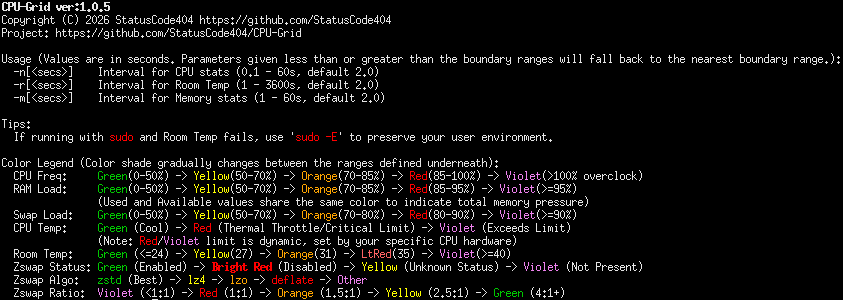
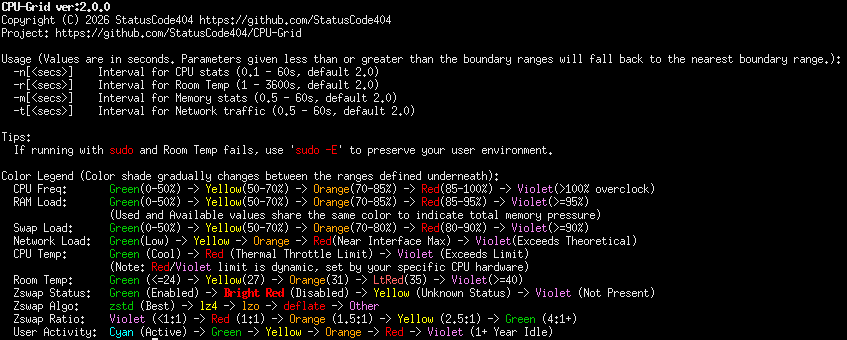
Updated README.md Updated images to represent 2.0.0

Changed region(s): [[0.0, 0.39, 0.7711, 1.0], [0.0, 0.15, 1.0, 0.36], [0.0, 0.0, 0.4626, 0.12]]

diff --git a/README.md b/README.md
@@ -6,16 +6,19 @@
 ![CPU-Grid Help](Screenshot-Help.png)
 
 ## What is it?
-CPU-Grid is a real-time, terminal-based system monitoring tool written in Rust. It provides a clean, color-coded overview of your system's performance, including CPU frequencies, hardware temperatures, memory utilization, and Zswap metrics
+CPU-Grid is a real-time, terminal-based system monitoring tool written in Rust. It provides a clean, color-coded overview of your system's performance, including CPU frequencies, hardware temperatures, memory utilization, Zswap metrics, network throughput, and user activity.
 
 ## Features
 
-- **Real-time Monitoring**: Tracks per-core CPU frequency, RAM/Swap usage, and hardware thermals.
-- **Smart Color-Coding**: Uses dynamic multi-stop color scaling to visually represent load and temperature intensity.
-- **Zswap Insight**: Monitors Zswap compression algorithms, pool statistics, and compression ratios to flag performance degradation (if enabled).
+- **Real-time Monitoring**: Tracks per-core CPU frequency, RAM/Swap usage, hardware thermals, network speeds, and user idle time.
+- **Smart Color-Coding**: Uses dynamic multi-stop color scaling to visually represent load, speed, and temperature intensity.
+- **Advanced Memory & Zswap Insights**: Monitors individual swap device utilization, Zswap compression algorithms, pool statistics, and compression ratios to flag performance degradation.
+- **Network & Event Tracking**: Monitors active Rx/Tx interface speeds against maximum throughput and dynamically logs interface connection/disconnection events.
+- **User Activity Tracking**: Zero-dependency hardware-level idle tracker reading raw system inputs, with secure user-space Wayland/X11 DBus fallbacks.
+- **Virtual Machine Awareness**: Gracefully detects VM guest environments and adjusts the UI to hide inaccessible hardware limits.
 - **Room Temperature**: Integrates with temper-poll to display ambient room temperature, including dynamic text warnings if the room reaches critical heat levels.
-- **Ultra-Lightweight & Safe**: Built with a multi-threaded architecture featuring zero-allocation data polling loops and strict thread cleanup for minimal CPU footprint and zero memory leaks.  For reference: a Ryzen 5950x running CPU-Grid with 1 milisecond interval update for cpu frequencies ('-n 0.1' which is the minimum allowed) and cpu temperature readings, which is the hardest load you can apply to this program; registers 0% to 0.67% of one logical core usage using ~400KB-500KB of memory executing 24/7!
-- **Squashable Grid**: It's primary design goal was to be able to show logical core frequencies, temperatures, memory & swap pressure all in a grid in the smallest shrunk terminal window possible with the least amount of resources used.  The grid will reorient based on terminal window dimensions.
+- **Ultra-Lightweight & Safe**: Built with a multi-threaded architecture featuring zero-allocation data polling loops and strict thread cleanup for minimal CPU footprint and zero memory leaks. For reference: a Ryzen 5950x running CPU-Grid with 1 millisecond interval update for cpu frequencies ('-n 0.1' which is the minimum allowed) and cpu temperature readings, which is the hardest load you can apply to this program; registers 0% to 0.67% of one logical core usage using ~400KB-500KB of memory executing 24/7!
+- **Squashable Grid**: Its primary design goal was to be able to show logical core frequencies, temperatures, memory & swap pressure, and networking all in a grid in the smallest shrunk terminal window possible with the least amount of resources used (scales down to 17 columns). The grid will reorient based on terminal window dimensions.
 
 ## Color Legend
 Color shade gradually changes between the ranges defined underneath.
@@ -27,24 +30,25 @@ Color shade gradually changes between the ranges defined underneath.
 | **Room Temp**| Green (≤24°C) → Yellow (27°C) → Orange (31°C) → LtRed (35°C) → Violet (≥40°C, triggers Warning) |
 | **RAM Load** | Green (0-50%) → Yellow (50-70%) → Orange (70-85%) → Red (85-95%) → Violet (≥95%) |
 | **Swap Load** | Green (0-50%) → Yellow (50-70%) → Orange (70-80%) → Red (80-90%) → Violet (≥90%) |
+| **Network Load** | Green (Low) → Yellow → Orange → Red (Near Interface Max) → Violet (Exceeds Theoretical) |
 | **Zswap Status** | Green (Enabled) → Bright Red (Disabled) → Yellow (Unknown) → Violet (Not Present) |
 | **Zswap Algo** | Green (zstd) → Yellow (lz4) → Orange (lzo) → Red (deflate) → Violet (Other) |
 | **Zswap Ratio** | Violet (<1:1) → Red (1:1) → Orange (1.5:1) → Yellow (2.5:1) → Green (4:1+) |
+| **User Activity** | Cyan (Active) → Green → Yellow → Orange → Red → Violet (1+ Year Idle) |
 
 ## Requirements
 
 - **OS**: Linux (Target strictly enforced at compile time. Requires access to /proc and /sys/class/hwmon).
 - **Rust/Cargo**: Required to build from source.
 - **Dependencies**: crossterm, which.
-- **External (OPTIONAL)**: `temper-poll` must be installed and in your system PATH for ambient room temperature.
+- **External (OPTIONAL)**: `temper-poll` must be installed and in your system PATH for ambient room temperature. Optional user-space fallback dependencies for user idle tracking: `busctl` (Wayland) or `xprintidle` (X11).
 
 ## Installation
 
 1. Clone the repository:
    ```bash
-   git clone https://github.com/StatusCode404/CPU-Grid.git
+   git clone [https://github.com/StatusCode404/CPU-Grid.git](https://github.com/StatusCode404/CPU-Grid.git)
    cd cpu-grid
-   ```
 
 2. Build the project:
    ```bash
@@ -63,7 +67,8 @@ Values are in seconds. Parameters given less than or greater than the boundary r
 | :--- | :--- | :--- |
 | `-n <secs>` | Interval for CPU stats | 0.1 - 60s, default 2.0 |
 | `-r <secs>` | Interval for Room Temp | 1 - 3600s, default 2.0 |
-| `-m <secs>` | Interval for Memory stats | 1 - 60s, default 2.0 |
+| `-m <secs>` | Interval for Memory stats | 0.5 - 60s, default 2.0 |
+| `-t <secs>` | Interval for Network traffic | 0.5 - 60s, default 2.0 |
 
 **Controls:**
 - Press `Q` or `Ctrl+C` to cleanly terminate background threads and quit the application.